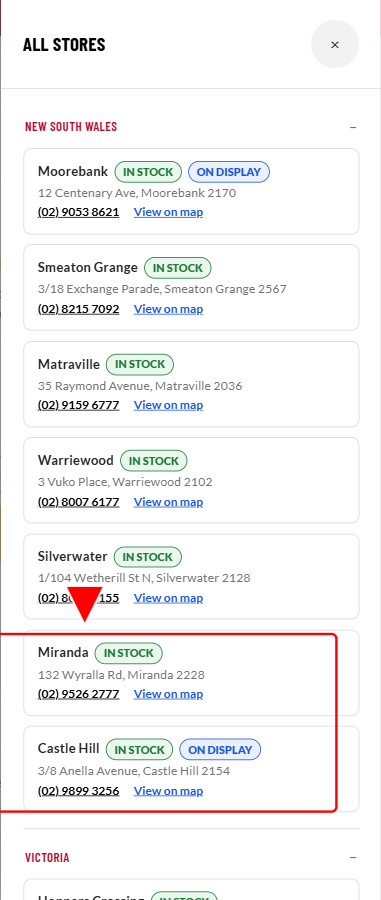
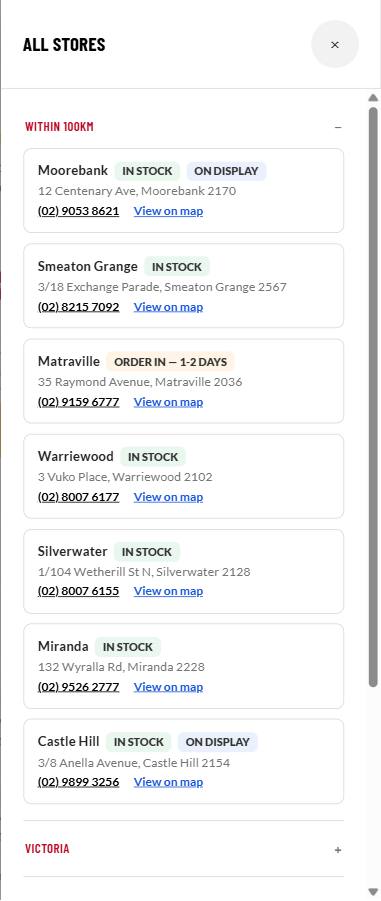
Fill DEVELOPER-BRIEF.md screenshot gaps for DC widget, Store Slide-out, Get It Installed, Ex-Demo (spec.md §12 items 17/20/24/38)
- §7.7: replaced one generic DC-widget shot with 3 (Delivery populated,
  Click & Collect populated, NZ/UK single-store fixed copy)
- §7.8: verified the Store Slide-out's "Within 100km" grouping live
  before recapturing (confirmed stale capture, not a code bug); added
  the missing no-postcode state
- §7.14: captured all 4 Get It Installed states (paired/full-width x
  gallery/no-gallery) on Vehicle-Specific, replacing the old 2
- §7.24: added an AU vs UK ("Graded Stock") side-by-side comparison

diff --git a/spec.md b/spec.md
@@ -755,7 +755,7 @@ Screenshot process note (reconfirmed, not new): as each item below gets actually
 14. ✅ **Done 2026-09-12.** **Global cleanup: strip backlog-item/meeting/internal-process references out of `DEVELOPER-BRIEF.md`.** 31 occurrences found (e.g. "(backlog item 11)", "(Graham Sowerby meeting)", "renamed 2026-09-11", named confirmations like "per Brenton's confirmation"). This history belongs in `spec.md`, not the developer-facing doc. Full pass needed across the entire document, rewriting each to state only the current, correct behaviour. Confirmed specific instances so far: §7.4 (renamed-backlog-item mention), §7.6 (mobile-readiness-audit mention), §7.20 (names Brenton directly, and is also factually backwards — see item 22).
 15. ⬜ **Every widget/section needs a Data Source line: Magento (template/layout) vs. Rackit (which exact field).** None of §6 or §7's entries currently say where their content comes from. Add a "Data Source" line to every Component Library entry (§7.1–7.29) and relevant Page Layout mentions (§6), stating "Magento — template-level" or "Rackit — field: `[name]`." Confirmed concrete examples needing this: product title/price/SKU/breadcrumbs/description/specs/stock/images/video/fitting-instructions/fitment data/package-contents/related products (likely Rackit), Gold Guarantee tab content (Magento CMS content block, same as the current live site), FAQ (Rackit, per item 20 below), Tabs accordion mechanism/Sticky bar/Region Selector (Magento/template, no Rackit field). **Needs input from whoever owns/knows the Rackit schema before it can be completed** — not to be guessed from the scraped JSON shape alone.
 16. ✅ **Done 2026-09-12.** **Real bug: UK's Delivery/Click & Collect widget should default to the Delivery tab, not Click & Collect.** `shared.js:1146` — `REGION_DEFAULT_DC_TAB = { AU: 'collect', NZ: 'delivery', UK: 'collect' }` — UK's value is wrong, should be `'delivery'` (same as NZ, since both are single-store regions). Fix code, then §4.2 cascade table row 2 and §7.7's region-differences line in both `DEVELOPER-BRIEF.md` and `spec.md`.
-17. ⬜ **§7.7 missing screenshots of the widget's actual populated states.** Only "default/no-postcode" and one generic "postcode entered (AU)" shot exist. Need: Delivery tab's own populated result (rate/cost shown), and Click & Collect's populated store-results state, as distinct shots.
+17. ✅ **Done 2026-09-12.** **§7.7 missing screenshots of the widget's actual populated states.** Replaced the single generic "postcode entered (AU)" shot with 3 distinct captures on Simple: `dc-widget-results-delivery.png` (Delivery tab, Standard/Express Freight rates shown), `dc-widget-results-collect.png` (Click & Collect tab, store results + "View all stores"), plus a bonus `dc-widget-single-store.png` showing the NZ/UK fixed single-store line (no postcode search UI) — added while scoping this item via `/backlog`, since the widget's region difference had text but no screenshot. Verified live with Playwright (AU postcode 2170, both tabs; UK region switch showing "On display at the Bolton Store"), Demo State Panel confirmed out of frame in all 3. `DEVELOPER-BRIEF.md` §7.7 updated to reference all 3; old `dc-widget-results.png` deleted (no longer referenced anywhere).
 18. ✅ **Done 2026-09-12, together with item 19.** No invalid-postcode handling existed at all. Resolved as part of the v2 widget rebuild below — an invalid postcode (anything not exactly 4 digits) now shows a red-bordered input plus an inline error banner ("That doesn't look like a valid Australian postcode. Please check and try again."), matching Brenton's Figma design exactly.
 19. ✅ **Done 2026-09-12 — built as a Demo State Panel preview, not yet the shipped default.** Brenton supplied Figma exports (`Delivery and Click and Collect Widget Design/`, project root) redesigning the widget's interaction model: an explicit postcode **Check** button (not live-as-you-type) → a "Checking…" loading state → one of three outcomes — a radio-selectable options list (Standard/Express Shipping + Click & Collect on the Delivery tab, nearest real stores with Closest/In-Stock/Need-to-Order-In badges on the Click & Collect tab), a "No Stores Nearby" state, or a "Remote" quote-request state (email + Request Quote). Selecting Click & Collect from within Delivery's own options switches the widget to the real Click & Collect tab.
     - **New toggle:** Demo State Panel → Widget Previews → "New Delivery/Click & Collect design (preview, AU only)" (`dcWidgetV2` flag, `applyDcWidgetV2Flag()`/`dcV2*()` functions in shared.js). Off by default — the current live widget stays the shipped default until Brenton signs off on the preview.
@@ -766,7 +766,7 @@ Screenshot process note (reconfirmed, not new): as each item below gets actually
     - **Shipping prices are flat demo values taken directly from the Figma** ($19 Standard / $45 Express), not postcode-dependent — same flat-rate convention the original widget's prices already used.
     - Zero changes to any of the 5 templates' HTML — fully JS/CSS-only (`dcV2Render()` caches each `.dc-widget`'s real `innerHTML` on first toggle and restores it exactly when the preview is off), so this is completely reversible with no risk to the shipped default.
     - Verified with Playwright on Simple (valid AU postcode → options on both tabs, instant tab-switch with no second loading flash, Click & Collect radio switches tabs; NT postcode → Remote on Delivery + No Stores Nearby on Collect, Switch To Delivery jumps tabs correctly; invalid formats → immediate error, no loading flash; second `.dc-widget` in the Shipping Info tab mirrors every state instantly; toggle off reverts both widgets to exactly their original markup/behaviour with no duplicate event listeners; full AU→NZ→UK→AU region round trip with the preview left on throughout confirmed NZ/UK totally unaffected) and spot-checked on Vehicle-Specific (no regressions against its fitment/persistent-bar logic, mobile 390px clean) — zero console errors throughout (aside from the pre-existing unrelated favicon 404). Not pushed — holding for Brenton's review/sign-off before this becomes the shipped default, per the usual workflow. `DEVELOPER-BRIEF.md` not touched, per the standing gate.
-20. ⬜ **§7.8 Store Slide-out — existing screenshot doesn't show the documented "Within 100km" promoted group**, and there's no screenshot of the no-postcode state at all (brief currently says "not separately screenshotted here"). The underlying grouping logic does exist in code (`renderStoreSlideoutBody()`), so this looks like a bad/stale capture rather than a missing feature — confirm live, then capture both states properly (postcode entered with the group visible; no postcode, all groups closed).
+20. ✅ **Done 2026-09-12.** **§7.8 Store Slide-out screenshots.** Confirmed live with Playwright before recapturing, per the item's own instruction: `renderStoreSlideoutBody()`'s grouping logic is correct — entering NSW postcode 2170 genuinely promotes a "Within 100km" group to the top (open by default, Moorebank's On Display pill visible), so this was a stale/bad capture, not a code bug. Re-captured `store-slideout-open.png` (NSW promoted) and added a new `store-slideout-closed.png` for the no-postcode state — which actually renders every state group **open** (not closed, as this item's own text assumed), matching `renderStoreSlideoutBody(null)`'s real behaviour. `DEVELOPER-BRIEF.md` §7.8 updated to reference both, Demo State Panel confirmed out of frame in both.
 21. ✅ **Done 2026-09-12.** **§7.9 doc fix: On Display isn't inherently AU-only** — it's the component it currently lives in (AU-only store-row list) that's AU-only, not the on-display concept itself. Reword.
 22. ✅ **Done 2026-09-12.** **Real bug: NZ/UK's Click & Collect summary line always claims "On display," with no check against any actual on-display flag.** `shared.js:220` — the NZ/UK branch hardcodes `` `On display at the ${...} Store` `` unconditionally, unlike AU's (already imperfect) postcode-gated branch. Needs to actually check the real/placeholder on-display flag for that single store before asserting it's on display.
 23. ✅ **Done 2026-09-12.** Whole pricing section redesigned off Brenton's Figma reference (`Price Layout Design.png`, project root) — a stacked "Now $X" (red, Barlow Condensed, bumped 34px→42px) / "Was $Y  [Save Z%]" (dark grey `#434343`, badge corner-radius softened from a full pill to a `8px` rectangle, badge text-transform changed from uppercase to the reference's mixed case) layout, on all 5 templates' Decision Panel. Pixel-sampled the reference directly (Windows `System.Drawing`) rather than eyeballing: the red is `#BB0200`, already matching this project's `--rrg-red` token almost exactly (no new token needed); the grey is `#434343`, notably darker than the previous `#8a8a8a`. Scoped via AskUserQuestion before building: region-agnostic (colours are token-driven, so the existing UK navy-skin/currency plumbing applies automatically with no new work); Sale Tag unchanged (stays, just wasn't in the reference crop — its position is already relative to `.price-block`'s real height, so it re-centers against the taller block with no code change); off-sale state drops the "Now"/"Was" labels entirely and falls back to a plain price, same as before this redesign; the condensed Sticky Mobile Bar/Persistent Bar price is adapted (same red/dark-grey colours on the existing single-line price) rather than getting the full labelled layout, since there's no room for labels/badge there. One judgement call flagged at plan review and built as recommended: the plain (non-sale) price stays neutral black rather than always-red, since the reference is explicitly an on-sale example and standard practice reserves red for the sale contrast itself, not every regular price — `.price-block.on-sale .price-now` is the only red-price rule.
@@ -790,7 +790,7 @@ Screenshot process note (reconfirmed, not new): as each item below gets actually
     **Fourth follow-up same day — mobile: Sale Tag moved off the price block entirely, onto the main product image.** Brenton reviewed the top-right-corner-of-the-price-block fix above and said it still looked wrong. Rather than a third position on `.price-block`, moved the mobile tag onto the gallery instead — added a second `.sale-tag.gallery-sale-tag` image inside `.gallery-main` (the shared main-image container, already `position:relative` + `overflow:hidden` on all 5 templates) on all 5 templates, positioned `top:8px;right:8px` and shown only at `max-width:900px`; the original `.price-block .sale-tag` instance is now `display:none` on mobile entirely rather than repositioned, and stays exactly as it was (vertically centred against the block) on desktop. `.gallery-main`'s existing `overflow:hidden` conveniently clips the new tag flush to the image's rounded corner for free, and its existing `img{width:100%;height:100%;object-fit:cover}` rule needed an explicit two-class override (`.gallery-main .gallery-sale-tag`) so the tag isn't stretched to fill the whole image box the way the real product photo is.
 
     `syncSaleTag()` in shared.js (previously scoped to find one `.sale-tag` within the price block's own `.decision-panel`) was broadened to toggle every `.sale-tag` on the page together — a page only ever has one product/one sale state, so this is simpler and correct regardless of how many tag instances currently exist, and means the gallery instance automatically inherits every existing behaviour (Titanium Grey's no-discount state, the Demo State Panel's on/off toggle, variant switches) with no separate wiring. Verified with Playwright on all 5 templates: gallery tag renders correctly over both static and JS-rendered gallery images (config-variant/sibling-color), legible against both a plain white product photo and a real busy lifestyle/product photo (vehicle-specific); sibling-color's Titanium Grey correctly hides it, Black correctly restores it; the Demo State Panel's "Product is on sale" toggle hides/shows both tag instances together; desktop (1280px) confirmed completely unaffected via computed style (`.price-block .sale-tag` still `display:block`, `.gallery-sale-tag` still `display:none`); no horizontal overflow at 390px on any template; zero console errors. Not pushed.
-24. ⬜ **§7.14 Get It Installed CTA needs 4 screenshots**, not 2: paired+gallery, paired+no-gallery, full-width+gallery, full-width+no-gallery — to show both the size difference and the fitment-count-aware copy/link difference together.
+24. ✅ **Done 2026-09-12.** **§7.14 Get It Installed CTA — 4 screenshots**, replacing the old 2. Captured on Vehicle-Specific (the only template with the Fitment Gallery toggle), all 4 combinations of "Has video" × "Fitment Gallery exists": `install-cta-paired-gallery.png`, `install-cta-paired-no-gallery.png`, `install-cta-fullwidth-gallery.png`, `install-cta-fullwidth-no-gallery.png`. **Real latent bug found while capturing, not fixed here (out of scope for this item):** the page's static HTML default (before any Demo State Panel toggle is touched) hardcodes the CTA text as "See 283 real fitments," which doesn't match `applyFitGalleryFlag()`'s own current 5+ copy ("We've fitted this 283 times — view the gallery") — nothing calls that function on page load to sync the two, so the static markup is stale relative to the JS logic. Screenshots use the correct, function-driven copy (toggling gallery off/on once syncs it); flagging the stale static default as a separate follow-up, not folded into this item. `DEVELOPER-BRIEF.md` §7.14 updated to reference all 4; old `install-cta-paired.png`/`install-cta-no-video.png` deleted.
 25. ✅ **Done 2026-09-12.** **§7.15 Product Video — description is stale.** Says "a placeholder box shows for SKUs with no real scraped video" — checked the CSS (`shared.css:585`, `.install-media-row.no-video .video-placeholder{display:none!important;}`), the video slot is actually fully hidden, not shown as a placeholder, and Get It Installed expands to full width instead. Doc-only fix — code is already correct.
 26. ✅ **Done 2026-09-12, after item 5; reworked same day per Brenton's live-site screenshot.** **§7.16 Fitted Photos Gallery — "View All In-store Fitments" link now works, as a two-view slide-out.** First pass opened a flat photo grid only; Brenton then shared a screenshot of the live site's own "Browse Fitment" popup and asked for that fuller experience — clicking a grid photo opens a per-fitment detail view (`renderFitGallerySlideoutDetail()`), with a "‹ Back to Grid View" link replacing the grid's heading. Detail view: a light "Browse Fitment N of 283 / Fit #NNNNNN" bar (the Fit # is each photo's own real Rackit `product_id` from the scrape, not fabricated), Prev/Next (disabled at the ends), a large main photo + 4 thumbnails, the page's own real product title (read from `<h1>`) and vehicle line (`VEHICLE_PRODUCT.shared.specifications_shared['Vehicle']`), a "Rack Components" list, a disclaimer note, and a "Back to Product" button. Confirmed with Brenton: every fitment shows the *same* real vehicle/components (no fabricated variety across vehicles, unlike the live reference which spans multiple products) — the components list is read live from the page's own What's Included rows (`rackComponentsFromPage()`) so the two can't drift apart; the detail view's 3 "other angle" thumbnails reuse other real photos from the same 16-photo set rather than inventing new ones (flagged in Section 7); and "Back to Product" (replacing the live site's "View Rack & Buy", which doesn't apply on a page that already is that product) closes the drawer and scrolls to the Decision Panel with a brief highlight instead of navigating anywhere. Grid view unchanged from the first pass otherwise (`buildFitGallerySlideout()`/`openFitGallerySlideout()`/`closeFitGallerySlideout()`/`renderFitGallerySlideoutGrid()` in `shared.js`, `.fit-gallery-slideout*`/`.fgs-*` CSS in `shared.css`; `FIT_GALLERY_PHOTOS` in `vehicle-specific/index.html` now `{thumb, id}` objects instead of plain URLs, still all 16 real scraped photos). Verified with Playwright: grid → detail → Prev/Next (Fit # and browse count update correctly, Prev disabled at fitment 1, Next disabled at the last tile) → Back to Grid View → reopen a different photo → Back to Product (drawer closes, Decision Panel receives the highlight class) — zero console errors throughout. Screenshot deferred to the standing final mass-capture pass, same as the rest of this backlog.
 27. ✅ **Done 2026-09-12.** **§7.17 Gold Guarantee tab — add a content-source note: Magento CMS content, not Rackit** (same as the current live site). Concrete example feeding into item 15.
@@ -804,7 +804,7 @@ Screenshot process note (reconfirmed, not new): as each item below gets actually
 35. ✅ **Done 2026-09-12.** **§7.22 Discontinued state — remove the duplicate stock-status-line text**, keep only the banner card (both currently say the product is discontinued; redundant). Only for the discontinued state — other stock states keep their status line.
 36. ✅ **Done 2026-09-12.** **Real bug: Discontinued banner has red text on a red-tinted box, should be black text on the box.** `shared.css:719` — `.discontinued-banner` sets `color:var(--rrg-nofit)`. This contradicts §7.22's own claim that it "follows the same black-on-warning-colour rule as 7.4/7.21" — the code doesn't actually match. Fix the CSS; keep the red background/border.
 37. ✅ **Done 2026-09-12.** **Real bug: Ex-Demo/B-Stock pill tags wrap to two lines** (e.g. "Sellable Return") instead of staying on one line, breaking the pill shape. `shared.css:816` — `.exdemo-option .eo-tag` has no `white-space:nowrap`. Fix, then redo the §7.24 screenshot.
-38. ⬜ **§7.24 needs region-specific screenshots** — UK's "Graded" wording (drawer heading + inline stock-line text) vs. AU/NZ's "Ex-Demo/Factory Seconds," shown side by side.
+38. ✅ **Done 2026-09-12.** **§7.24 region-specific screenshots** — captured on Simple: `exdemo-slideout-au.png` (AU/NZ wording, "Ex-Demo & Factory Seconds" heading) and `exdemo-slideout-uk.png` (UK "Graded Stock" heading, "Graded" inline text, £ currency, Bolton store name) side by side. Confirmed the 3 option tags (Ex-Demo/Sellable Return/Factory Second) are unchanged across both, per `exdemoCopy()`. `DEVELOPER-BRIEF.md` §7.24 updated; old generic `exdemo-slideout.png` deleted (superseded by the AU-labelled version).
 39. ✅ **Done 2026-09-12.** **§7.26 Sticky Mobile Bar — truncated product name added.** Confirmed with Brenton via AskUserQuestion before building: region-agnostic (price/currency/CTA colour already flow through the existing generic render/`applyRegion()` paths, no new hook needed); **name only, no thumbnail** (not matching Vehicle-Specific's thumbnail+name treatment); **keep price visible** on these 4 bars (Vehicle-Specific's own bar drops price to make room for its fitment box + Rack Fit Guarantee badge, but these 4 have no fitment box so there's more room). Added a `.persistent-name` div (the same class already used for the thumbnail-paired name in `.persistent-product` elsewhere — reused here as a plain block child of `.info`, no wrapper needed, since `.info` has no base rule of its own and sizes to the flex item's full width) above the existing price line on Simple, Config-Variant, Sibling-Color, and Grouped-Bundle — each reusing the exact same static product-name string already shipped in that template's own Persistent Bar (desktop), same source of truth, no new copy. No `shared.js`/`shared.css` changes needed — the existing `.sticky-cta-mobile .persistent-name{font-size:12px}` descendant rule already applied. Config-Variant and Sibling-Color's price stays live-synced via the existing `#mobilePrice` id (untouched); their name is static, matching the Persistent Bar's own existing behaviour of not live-updating name on variant/colour switch. Verified with Playwright at 390px on all 4 templates: name truncates cleanly with ellipsis where needed (Simple/Grouped-Bundle's longer names), no horizontal overflow, bar still only appears once the real Add to Cart button scrolls out of view; Config-Variant's Assembled→Flat Pack switch and Sibling-Color's swatch switch both correctly update price live while name stays static; Vehicle-Specific spot-checked unaffected (still thumbnail+name); zero console errors across all 5 templates (aside from the pre-existing unrelated favicon 404). **Flagged for `DEVELOPER-BRIEF.md` §7.26:** owed a text/screenshot update reflecting the name addition whenever Brenton's next separate dev-brief sign-off round happens — not touched this session, per the standing gate. Not pushed — holding for Brenton's sign-off per the usual workflow.
 
 **Same-day follow-up — real pre-existing bug found and fixed, not caused by the item above.** Brenton reported the sticky bar "not at the bottom" on mobile. Root cause: the site's real mobile/desktop breakpoint (used for the Hero single-column reflow, header hamburger, and horizontal-vs-vertical Tabs) is **900px**, but the Sticky Mobile Bar / Persistent Bar pair switched at a different, narrower **640px** breakpoint (`shared.css` lines ~996 and ~1018). Between 641–900px wide, the page already looked and behaved "mobile" everywhere else, but the CTA bar logic still treated it as desktop — showing the top Persistent Bar instead of the bottom Sticky Mobile Bar. Fixed by changing both breakpoints to `900px` to match the rest of the site; the other, unrelated uses of `640px` elsewhere in `shared.css` (touch-nav-arrow hiding, small-phone font-size floor, admin FAB hiding) were deliberately left untouched, since those are genuine small-phone/touch concerns, not the mobile-vs-desktop layout split. Verified with Playwright: at 750px width (the gap that exposed the bug), the bottom bar now shows correctly with the top bar hidden once the real Add to Cart button scrolls out of view; 390px and 1280px both re-confirmed unaffected (bottom bar only below 901px, top bar only at/above it); zero console errors. Not pushed — holding for Brenton's sign-off per the usual workflow.

diff --git a/DEVELOPER-BRIEF.md b/DEVELOPER-BRIEF.md
@@ -972,7 +972,9 @@ Every widget named in `PAGE-GLOSSARY.md`, one entry each, covering what it does,
 **States:**
 - Location (full page, red arrow): ![Delivery/Click & Collect — location](dev-brief-assets/dc-widget-location.png)
 - Default, no postcode entered yet: ![DC widget — default](dev-brief-assets/dc-widget-default.png)
-- Postcode entered (AU) — summary line + "View all stores": ![DC widget — postcode entered](dev-brief-assets/dc-widget-results.png)
+- Postcode entered (AU), Delivery tab — Standard/Express Freight rates shown: ![DC widget — Delivery tab populated](dev-brief-assets/dc-widget-results-delivery.png)
+- Postcode entered (AU), Click & Collect tab — store results + "View all stores": ![DC widget — Click & Collect tab populated](dev-brief-assets/dc-widget-results-collect.png)
+- NZ/UK (single-store region) — fixed store line, no postcode search UI: ![DC widget — single-store region](dev-brief-assets/dc-widget-single-store.png)
 
 ---
 
@@ -990,7 +992,7 @@ Every widget named in `PAGE-GLOSSARY.md`, one entry each, covering what it does,
 
 **States:**
 - Postcode entered (NSW, 2170) — NSW promoted to a "Within 100km" group at the top, open by default, On Display pill visible on Moorebank: ![Store Slide-out — open, promoted group](dev-brief-assets/store-slideout-open.png)
-- No postcode: every state renders as its own closed `<details>` group (native accordion, no JS) — not separately screenshotted here, same visual pattern as the FAQ accordion (7.18).
+- No postcode — every state renders as its own open `<details>` group (native accordion, no JS), same visual pattern as the FAQ accordion (7.18): ![Store Slide-out — no postcode, all groups open](dev-brief-assets/store-slideout-closed.png)
 
 ---
 
@@ -1092,8 +1094,10 @@ Every widget named in `PAGE-GLOSSARY.md`, one entry each, covering what it does,
 **Links:** real external link (opens in a new tab, `target="_blank" rel="noopener noreferrer"`) — except on Vehicle-Specific, where the CTA copy/link is fitment-count-aware (see `#fitGallerySection`'s data-driven copy in `PAGE-GLOSSARY.md`): 5+ fitments links in-page to the Fitted Photos Gallery (7.16), 1–4 does the same with different copy, 0 or "no gallery" falls back to the same external fitting-costs link as the other 4 templates.
 
 **States:**
-- Paired with video (16:9, matches the video's height exactly): ![Get It Installed — paired](dev-brief-assets/install-cta-paired.png)
-- No video (full-width, larger text/icons): ![Get It Installed — no video](dev-brief-assets/install-cta-no-video.png)
+- Paired with video, Fitment Gallery on (16:9, matches the video's height exactly; CTA reads the fitment-count-aware copy, e.g. "We've fitted this 283 times — view the gallery"): ![Get It Installed — paired, gallery on](dev-brief-assets/install-cta-paired-gallery.png)
+- Paired with video, Fitment Gallery off (same size; CTA falls back to "See Fitting Options"): ![Get It Installed — paired, gallery off](dev-brief-assets/install-cta-paired-no-gallery.png)
+- No video, Fitment Gallery on (full-width, larger text/icons; same fitment-count-aware copy): ![Get It Installed — full-width, gallery on](dev-brief-assets/install-cta-fullwidth-gallery.png)
+- No video, Fitment Gallery off (full-width; "See Fitting Options" fallback): ![Get It Installed — full-width, gallery off](dev-brief-assets/install-cta-fullwidth-no-gallery.png)
 
 ---
 
@@ -1280,7 +1284,9 @@ Each template also carries a `FAQPage` JSON-LD structured-data block (in `<head>
 
 **Links:** not a navigation link — opens the slide-in drawer in place.
 
-**States:** ![Ex-Demo/B-Stock slide-in drawer](dev-brief-assets/exdemo-slideout.png) — 3 discount options (Ex-Demo/Sellable Return/Factory Second), computed live off whatever price is currently showing.
+**States:** 3 discount options (Ex-Demo/Sellable Return/Factory Second), computed live off whatever price is currently showing — the 3 tags are identical in every region, only the drawer heading and inline stock-line text change:
+- AU/NZ wording ("Ex-Demo & Factory Seconds"): ![Ex-Demo/B-Stock slide-in drawer — AU/NZ wording](dev-brief-assets/exdemo-slideout-au.png)
+- UK wording ("Graded Stock"): ![Ex-Demo/B-Stock slide-in drawer — UK "Graded" wording](dev-brief-assets/exdemo-slideout-uk.png)
 
 ---
 
